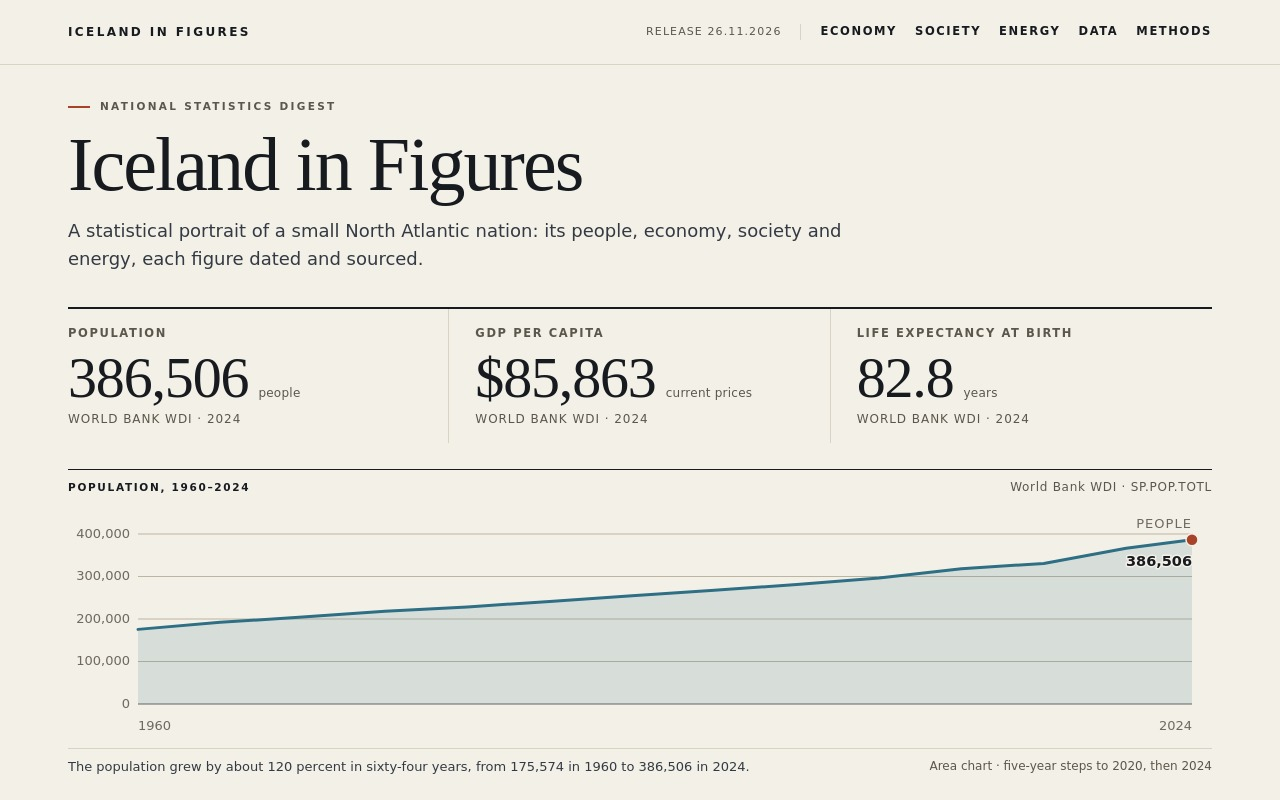
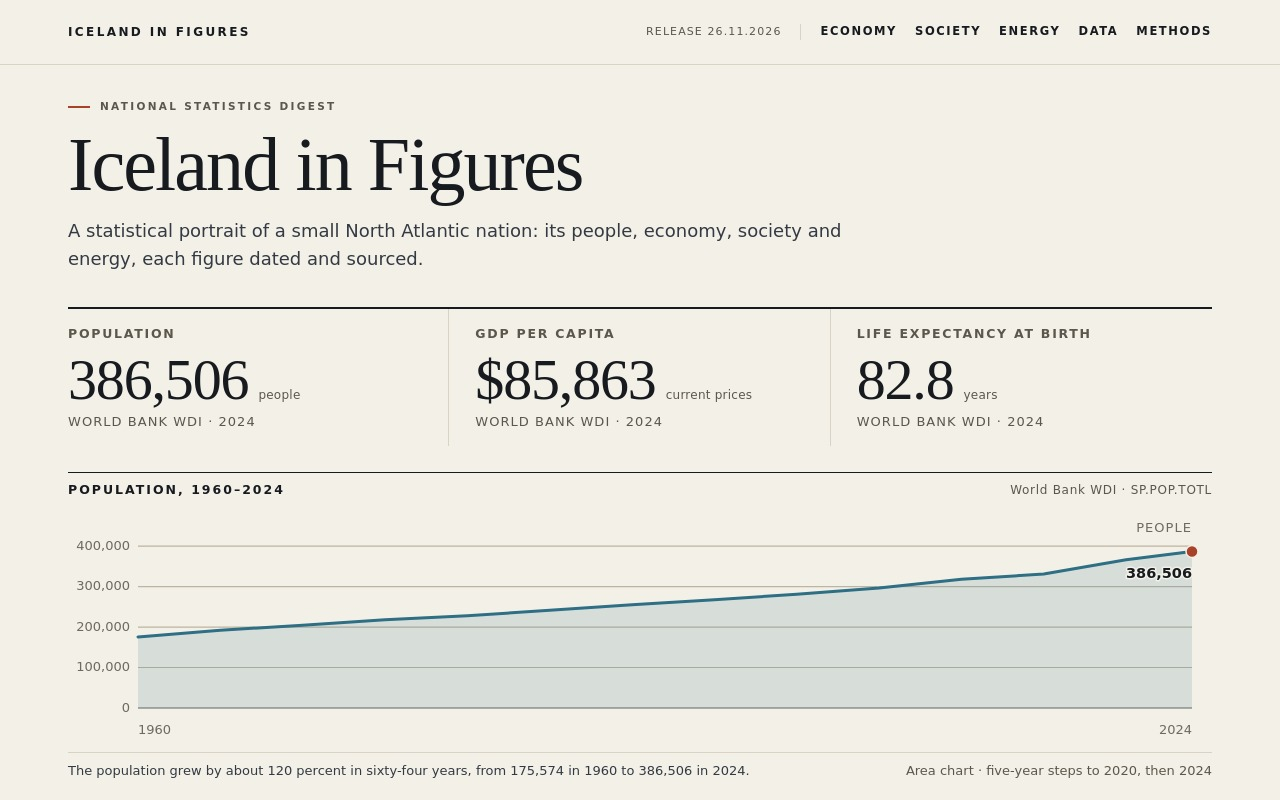
Pass 4: judge-scale type, table band and chart contrast

diff --git a/app/charts.js b/app/charts.js
@@ -3,6 +3,7 @@ const COLORS = {
   glacier: "#2f6f86",
   lava: "#a8432a",
   rule: "#bdb4a1",
+  lineGrid: "#b0a68f",
   muted: "#6f6a5f",
   ink: "#171a1f",
   paper: "#f3f0e8",
@@ -53,7 +54,9 @@ function plot(points, options) {
   };
   const plotWidth = width - margin.left - margin.right;
   const plotHeight = height - margin.top - margin.bottom;
-  const [minY, maxY] = valueBounds(points, options.kind === "area");
+  const [minBound, maxBound] = valueBounds(points, options.kind === "area");
+  const minY = options.yMin ?? minBound;
+  const maxY = options.yMax ?? maxBound;
   const years = points.map((point) => point[0]);
   const minYear = Math.min(...years);
   const maxYear = Math.max(...years);
@@ -73,14 +76,16 @@ function plot(points, options) {
   const dotRadius = 6;
   const lineWidth = 3;
 
-  const gridlines = [0, 0.25, 0.5, 0.75].map((fraction) => {
-    const y = margin.top + fraction * plotHeight;
-    return `<line x1="${margin.left}" y1="${y.toFixed(2)}" x2="${margin.left + plotWidth}" y2="${y.toFixed(2)}" stroke="${COLORS.rule}" stroke-width="1.2" />`;
+  const gridColor = options.kind === "line" ? COLORS.lineGrid : COLORS.rule;
+  const yTickValues = options.yTicks ?? [0, 0.25, 0.5, 0.75, 1].map((fraction) => maxY - fraction * (maxY - minY));
+  const gridValues = yTickValues.filter((value) => value > minY + 1e-9);
+  const gridlines = gridValues.map((value) => {
+    const y = margin.top + yFor(value);
+    return `<line x1="${margin.left}" y1="${y.toFixed(2)}" x2="${margin.left + plotWidth}" y2="${y.toFixed(2)}" stroke="${gridColor}" stroke-width="1.2" />`;
   }).join("");
 
-  const yLabels = [0, 0.25, 0.5, 0.75, 1].map((fraction) => {
-    const value = maxY - fraction * (maxY - minY);
-    const y = margin.top + fraction * plotHeight;
+  const yLabels = yTickValues.map((value) => {
+    const y = margin.top + yFor(value);
     return `<text x="${margin.left - 8}" y="${(y + 3.5).toFixed(2)}" text-anchor="end" font-size="${tickFont}" fill="${COLORS.muted}">${escapeXml(options.format ? options.format(value) : value)}</text>`;
   }).join("");
 
@@ -106,8 +111,12 @@ function plot(points, options) {
     ? `<path d="${areaPath}" fill="${COLORS.glacier}" fill-opacity="0.14" /><path d="${linePath}" fill="none" stroke="${COLORS.glacier}" stroke-width="${lineWidth}" stroke-linejoin="round" stroke-linecap="round" />`
     : `<path d="${linePath}" fill="none" stroke="${COLORS.glacier}" stroke-width="${lineWidth}" stroke-linejoin="round" stroke-linecap="round" />`;
 
+  const unitLabel = options.unitAlign === "axis"
+    ? `<text x="${margin.left - 8}" y="${margin.top - 14}" text-anchor="end" font-size="${tickFont}" letter-spacing="0.08em" fill="${COLORS.muted}">${escapeXml(options.unit ?? "")}</text>`
+    : `<text x="${(margin.left + plotWidth).toFixed(2)}" y="${margin.top - 6}" text-anchor="end" font-size="${tickFont}" letter-spacing="0.08em" fill="${COLORS.muted}">${escapeXml(options.unit ?? "")}</text>`;
+
   return `<svg viewBox="0 0 ${width} ${height}" role="img" aria-label="${escapeXml(options.label ?? "Chart")}">
-  <text x="${(margin.left + plotWidth).toFixed(2)}" y="${margin.top - 6}" text-anchor="end" font-size="${tickFont}" letter-spacing="0.08em" fill="${COLORS.muted}">${escapeXml(options.unit ?? "")}</text>
+  ${unitLabel}
   ${gridlines}
   <line x1="${margin.left}" y1="${baseline.toFixed(2)}" x2="${margin.left + plotWidth}" y2="${baseline.toFixed(2)}" stroke="${COLORS.ink}" stroke-width="1" opacity="0.65" />
   <svg x="${margin.left}" y="${margin.top}" width="${plotWidth}" height="${plotHeight}" viewBox="0 0 ${plotWidth} ${plotHeight}" preserveAspectRatio="none" aria-hidden="true">${plotMarkup}</svg>

diff --git a/app/index.html b/app/index.html
@@ -51,11 +51,8 @@
     <section id="economy" class="section">
       <div class="wrap">
         <div class="section-head">
-          <span class="section-number">02</span>
-          <div>
-            <h2>Economy</h2>
-            <p class="section-intro">Output, prices and jobs in a small, open economy, each series dated and sourced.</p>
-          </div>
+          <h2><span class="section-number">02</span> Economy</h2>
+          <p class="section-intro">Output, prices and jobs in a small, open economy, all dated and sourced.</p>
         </div>
         <div class="economy-grid">
           <div class="chart-col">
@@ -69,17 +66,17 @@
             <p class="series-heading">Crisis years</p>
             <div class="series-notes" aria-label="Crisis years">
               <div class="series-note">
-                <span class="series-year">2008</span>
+                <span class="series-year">2008 Banking collapse</span>
                 <span class="series-value">$57,489</span>
                 <span class="series-text">Down from $70,483 in 2007.</span>
               </div>
               <div class="series-note">
-                <span class="series-year">2009</span>
+                <span class="series-year">2009 Deep recession</span>
                 <span class="series-value">$41,484</span>
                 <span class="series-text">Down from $57,489 in 2008.</span>
               </div>
               <div class="series-note">
-                <span class="series-year">2020</span>
+                <span class="series-year">2020 COVID-19</span>
                 <span class="series-value">$60,128</span>
                 <span class="series-text">Down from $69,296 in 2019.</span>
               </div>
@@ -94,11 +91,8 @@
     <section id="society" class="section">
       <div class="wrap">
         <div class="section-head">
-          <span class="section-number">03</span>
-          <div>
-            <h2>Society</h2>
-            <p class="section-intro">How Icelanders live: longer, older, more urban and almost entirely online.</p>
-          </div>
+          <h2><span class="section-number">03</span> Society</h2>
+          <p class="section-intro">How Icelanders live: longer, older, more urban and almost entirely online.</p>
         </div>
         <div class="society-chart">
           <div class="figure-head">
@@ -126,11 +120,8 @@
     <section id="data" class="section">
       <div class="wrap">
         <div class="section-head">
-          <span class="section-number">04</span>
-          <div>
-            <h2>Data</h2>
-            <p class="section-intro">Nineteen indicators, latest available observation per series.</p>
-          </div>
+          <h2><span class="section-number">04</span> Data</h2>
+          <p class="section-intro">Nineteen indicators, latest available observation per series.</p>
         </div>
         <div class="data-tools">
           <input id="filter" type="search" placeholder="Filter indicators" aria-label="Filter indicators" autocomplete="off" spellcheck="false">
@@ -157,11 +148,8 @@
     <section id="methods" class="section methods">
       <div class="wrap">
         <div class="section-head">
-          <span class="section-number">05</span>
-          <div>
-            <h2>Methods and sources</h2>
-            <p class="section-intro">One source, one vintage, no adjustments.</p>
-          </div>
+          <h2><span class="section-number">05</span> Methods and sources</h2>
+          <p class="section-intro">One source, one vintage, no adjustments.</p>
         </div>
         <div class="methods-grid">
           <div class="methods-note">

diff --git a/app/styles.css b/app/styles.css
@@ -215,7 +215,7 @@ h1 {
 .kpi-label {
   display: block;
   color: var(--muted);
-  font-size: 11.5px;
+  font-size: 12.5px;
   font-weight: 600;
   letter-spacing: 0.14em;
   text-transform: uppercase;
@@ -247,7 +247,7 @@ h1 {
 .kpi-source {
   display: block;
   color: var(--muted);
-  font-size: 12px;
+  font-size: 13px;
   letter-spacing: 0.08em;
   text-transform: uppercase;
 }
@@ -268,7 +268,7 @@ h1 {
 }
 
 .figure-title {
-  font-size: 10.5px;
+  font-size: 12.5px;
   font-weight: 650;
   letter-spacing: 0.16em;
   text-transform: uppercase;
@@ -316,7 +316,7 @@ h1 {
 
 .figure-note {
   color: var(--muted);
-  font-size: 12px;
+  font-size: 13px;
   text-align: right;
   white-space: nowrap;
 }
@@ -324,17 +324,14 @@ h1 {
 /* Section headings */
 
 .section-head {
-  display: flex;
-  align-items: flex-start;
-  gap: 20px;
   margin-bottom: 30px;
 }
 
 .section-number {
-  min-width: 26px;
-  padding-top: 12px;
+  margin-right: 0.55em;
   color: var(--muted);
   font-size: 11px;
+  font-weight: 500;
   letter-spacing: 0.16em;
 }
 
@@ -385,14 +382,14 @@ h2 {
   padding-top: 6px;
   border-top: 1px solid var(--rule);
   color: var(--muted);
-  font-size: 12.5px;
+  font-size: 13px;
   line-height: 1.45;
 }
 
 .chart-source {
   margin-top: 6px;
   color: var(--muted);
-  font-size: 11.5px;
+  font-size: 12px;
   line-height: 1.4;
 }
 
@@ -425,7 +422,7 @@ h2 {
 .series-year {
   display: block;
   color: var(--muted);
-  font-size: 9.5px;
+  font-size: 10.5px;
   letter-spacing: 0.12em;
 }
 
@@ -671,23 +668,28 @@ h2 {
 }
 
 #data-table th[data-key="name"] {
-  width: 48%;
+  width: 38%;
 }
 
 #data-table th[data-key="group"] {
-  width: 13%;
+  width: 20%;
 }
 
 #data-table th[data-key="value"] {
-  width: 18%;
+  width: 17%;
 }
 
 #data-table th[data-key="unit"] {
-  width: 14%;
+  width: 16%;
 }
 
 #data-table th[data-key="year"] {
-  width: 7%;
+  width: 9%;
+}
+
+#data-table th[data-key="year"],
+#data-table td:last-child {
+  padding-right: 20px;
 }
 
 .data-table th {
@@ -757,10 +759,16 @@ h2 {
 }
 
 .data-table .group {
-  color: var(--muted);
-  font-size: 11px;
-  letter-spacing: 0.04em;
+  color: #4a463d;
+  font-size: 11.5px;
+  letter-spacing: 0.05em;
   text-transform: uppercase;
+}
+
+.data-table th[data-key="group"],
+.data-table td.group {
+  padding-left: 12px;
+  border-left: 2px solid #d8d1c0;
 }
 
 .data-foot {
@@ -774,10 +782,42 @@ h2 {
 }
 
 .arrow {
+  position: relative;
   display: inline-block;
   width: 10px;
-  color: var(--glacier);
-  font-size: 10px;
+  height: 13px;
+  color: var(--ink);
+  opacity: 0.4;
+  vertical-align: middle;
+}
+
+.arrow::before,
+.arrow::after {
+  position: absolute;
+  left: 1px;
+  border-left: 3px solid transparent;
+  border-right: 3px solid transparent;
+  content: "";
+}
+
+.arrow::before {
+  top: 1px;
+  border-bottom: 4px solid currentColor;
+}
+
+.arrow::after {
+  bottom: 1px;
+  border-top: 4px solid currentColor;
+}
+
+.data-table th[aria-sort="ascending"] .arrow,
+.data-table th[aria-sort="descending"] .arrow {
+  opacity: 1;
+}
+
+.data-table th[aria-sort="ascending"] .arrow::after,
+.data-table th[aria-sort="descending"] .arrow::before {
+  opacity: 0;
 }
 
 /* Methods */
@@ -972,12 +1012,11 @@ h2 {
   }
 
   .section-head {
-    gap: 14px;
     margin-bottom: 24px;
   }
 
   .section-number {
-    padding-top: 8px;
+    margin-right: 0.4em;
   }
 
   .figure-head {

diff --git a/app/app.js b/app/app.js
@@ -113,6 +113,8 @@ const chartConfigs = [
       height: width < 560 ? 200 : 230,
       unit: "PEOPLE",
       label: "Population of Iceland, 1960 to 2024",
+      yMax: 420000,
+      yTicks: [0, 100000, 200000, 300000, 400000],
       yearTicks: [1960, 2024],
       format: (value) => NF0.format(value),
     }),
@@ -123,6 +125,7 @@ const chartConfigs = [
       width,
       height: width < 560 ? 210 : 240,
       unit: "US$",
+      unitAlign: "axis",
       label: "GDP per capita in Iceland, 1995 to 2024",
       yearTicks: [1995, 2005, 2015, 2024],
       format: (value) => `$${NF0.format(value)}`,
@@ -184,7 +187,6 @@ function updateHeaders() {
   headers.forEach((header) => {
     const active = header.dataset.key === state.key;
     header.setAttribute("aria-sort", active ? (state.direction === 1 ? "ascending" : "descending") : "none");
-    header.querySelector(".arrow").textContent = active ? (state.direction === 1 ? "\u2191" : "\u2193") : "";
   });
 }
 
